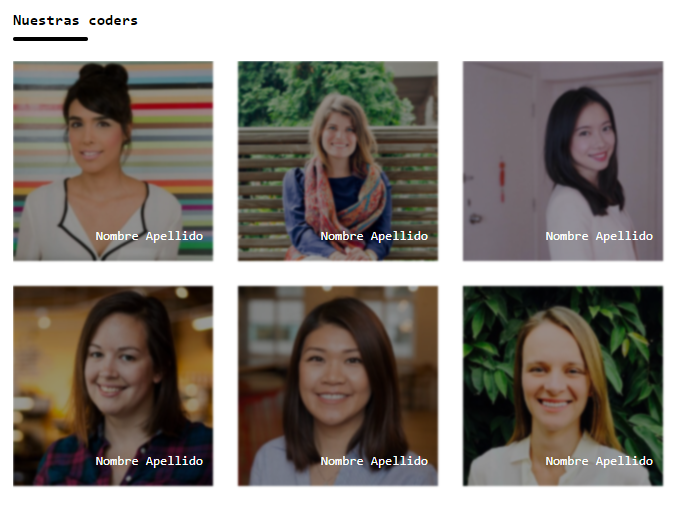
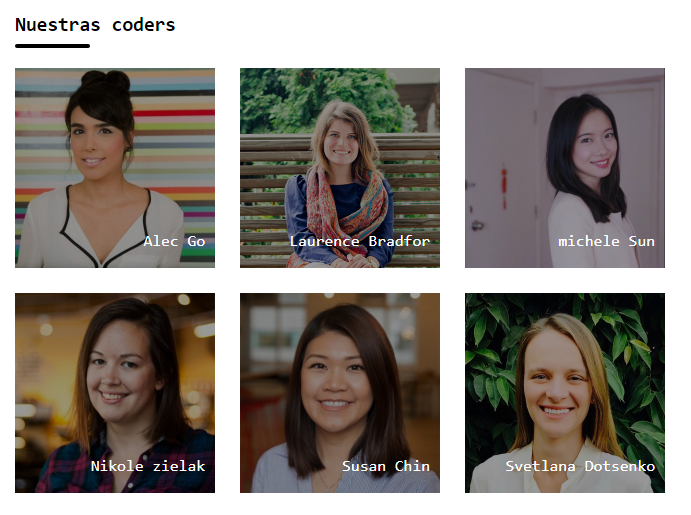
actualizando README

diff --git a/index.html b/index.html
@@ -12,7 +12,7 @@
       <main id="images">
       <div class="box"><img src="assets/images/alec-go.jpg" alt="Alec Go"><span>Alec Go</span></div>
       <div class="box"><img src="assets/images/laurance-bradford.jpg" alt="Laurence Bradfor"><span>Laurence Bradfor</span></div>
-      <div class="box"><img src="assets/images/michele-sun.jpeg" alt="michele Sun"><span>michele Sun</span></div>
+      <div class="box"><img src="assets/images/michele-sun.jpeg" alt="michele Sun"><span>Michele Sun</span></div>
       <div class="box cut" ><img src="assets/images/nicole-ziemlak.png" alt="Nikole zielak"><span>Nikole zielak</span></div>
       <div class="box"><img src="assets/images/susan-chin.jpg" alt="Susan Chin"><span>Susan Chin</span></div>
       <div class="box"><img src="assets/images/svetlana-dotsenko.jpg" alt="Svetlana Dotsenko"><span>Svetlana Dotsenko</span></div>

diff --git a/README.md b/README.md
@@ -1,7 +1,12 @@
 ## README
-1.Descripción del Proyecto
-	-Este proyecto contiene una página web  un bloque con fotos de mujeres coders
-2.Herramientas utilizadas
-	-HTML5
-	-CSS3
-3.[Recursos](assets/images/coders.png)
+1. Nombre del proyecto:
+	- Nuestras Coders
+2. Autor:
+	- Lilliam Haro (8BM)
+3. Descripción del Proyecto:
+	- Este proyecto contiene una pequeña galería de imagenes de mujeres coders
+4. Herramientas utilizadas:
+	- HTML5
+	- CSS3
+5. Resultado Final:
+	- ![Recursos](assets/images/coders.png)
